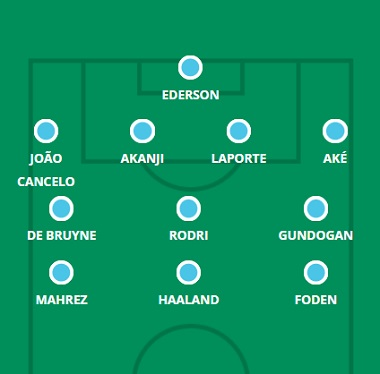
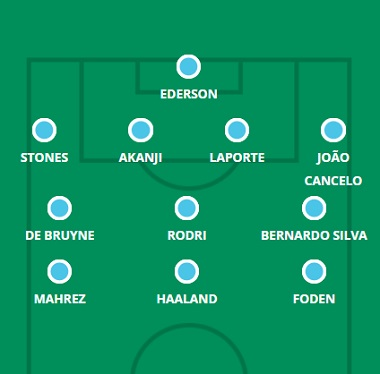
20/20

diff --git a/spurs.html b/spurs.html
@@ -63,15 +63,15 @@
     <hgroup>
         <h1> Provável Escalação</h1>
         <h2 class="direita"> por FabioVascão </h2>
-        <h3 class="direita"> Atualizado em 24/Novembro/2022 </h3>
+        <h3 class="direita"> Atualizado em 30/Novembro/2022 </h3>
     </hgroup>
 
     <div class="selecao"><p><b><img src="images/logos/tottenham.png" width="100rem" height="100rem"/> Tottenham</b></p></div>
        
     <div class="escalacao">
         <div class="topo">
-            <h2 class="titulo">Ultimas Notícias</h2> <h4><p> É uma verdadeira confusão quando se trata dos três jogadores do Spurs que estiveram envolvidos no último fim de semana da Copa do Mundo. Ivan Perisic está disponível para a seleção, mas Cristian Romero não estará de volta até a rodada 18 e Hugo Lloris estará apenas no banco contra o Brentford, o que significa uma largada para Fraser Forster entre os postes. No que diz respeito a lesões, Richarlison (coxa) enfrenta mais três a quatro semanas de ausência e Antonio Conte deu a entender que Lucas Moura ainda estava fora de jogo com as persistentes imperfeições que restringiram seu envolvimento em 2022/23 até agora. Matt Doherty parece bom para começar no oeste de Londres depois de quatro gols em três amistosos, mas pode jogar no flanco esquerdo, onde está implantado, com Perisic apenas voltando ao treinamento após 670 minutos de jogo com a Croácia e Ryan Sessegnon ainda não chutou uma bola após se recuperar de uma lesão. Outro zagueiro esquerdo que está em forma novamente, Ben Davies, conseguiu 24 minutos contra o Nice no meio da semana, mas não seria uma surpresa ver Davison Sanchez alinhar ao lado de Eric Dier e Clement Lenglet no meio-campo. Yves Bissouma parece pronto para substituir o suspenso Rodrigo Bentancur no meio-campo, enquanto a ausência de Richarlison e Lucas provavelmente cimenta as largadas dos três atacantes, desde que Son Heung-min não tenha nenhum efeito prolongado da doença que o restringiu para uma participação especial no meio da semana.</p></h4><br>
-            <h4><strong>Dúvidas:</strong> Richarlison, Lucas Moura, Skipp, Spence, Bentancur e Romero.</h4>
+            <h2 class="titulo">Ultimas Notícias</h2> <h4><p> Cristian Romero retorna da seleção com a Argentina para reforçar os números do Spurs na defesa, mas Rodrigo Bentancur, embora livre de suspensão, requer uma ressonância magnética em uma lesão na virilha e permanece de fora. Lucas Moura (tendão) e Richarlison (coxa) ainda afastados aparentemente consolidariam as partidas para os três primeiros que alinharam em Brentford, enquanto a ausência de Bentancur traz boas notícias para as perspectivas de Yves Bissouma em tempo de jogo. Existem alternativas em cada caso (Bryan Gil e Oliver Skipp), mas eles tiveram apenas duas partidas na liga nesta temporada e nem foram chamados como substitutos na 17ª rodada. expulsando Japhet Tanganga do papel de zagueiro direito, com Romero assumindo seu lugar se estiver totalmente recarregado e Davinson Sanchez entrando em cena, caso contrário. Com seis dias separando os jogos da Gameweek 17 e 18 do Spurs, a fadiga não deve ser o problema que costuma ser nesta época do ano. Clement Lenglet, Ivan Perisic e Matt Doherty esperam manter suas camisas para a visita do Villa, mas com um confronto com o Crystal Palace 72 horas depois deste, Ben Davies, Ryan Sessegnon e Emerson Royal poderão em breve dar uma olhada - nas três posições de maior risco. Hugo Lloris certamente retornará aqui também, tendo estado apenas no banco no Boxing Day após seu retorno tardio da Copa do Mundo.</p></h4><br>
+            <h4><strong>Dúvidas:</strong> Richarlison, Lucas Moura, Spence e Bentancur.</h4>
         </div>
         <aside>
             <figure>

diff --git a/south.html b/south.html
@@ -63,15 +63,15 @@
     <hgroup>
         <h1> Provável Escalação</h1>
         <h2 class="direita"> por FabioVascão </h2>
-        <h3 class="direita"> Atualizado em 24/Novembro/2022 </h3>
+        <h3 class="direita"> Atualizado em 30/Novembro/2022 </h3>
     </hgroup>
 
     <div class="selecao"><p><b><img src="images/logos/southampton.png" width="100rem" height="100rem"/> Southampton</b></p></div>
        
     <div class="escalacao">
         <div class="topo">
-            <h2 class="titulo">Ultimas Notícias</h2> <h4><p>Aguardamos a seção embargada da 17ª rodada do presser de Nathan Jones pós-EFL Cup, mas Juan Larios (músculo) e Tino Livramento (joelho) parecem improváveis de aparecer, enquanto Theo Walcott saiu mancando da vitória no meio da semana sobre Lincoln City com rigidez na panturrilha. Romeo Lavia não foi arriscado para esse jogo depois de "sentir algo" no treino, com Jones a afirmar que "será no dia-a-dia" com o médio e que o Santos "não quer arriscar" a sua forma física. Jones alinhou em um 3-5-2 em suas duas primeiras partidas oficiais como técnico do Southampton, mudando para um 4-3-3 mais tarde em ambos os jogos em uma tentativa de marcar gols. Jones pode decidir agir com cautela novamente contra um perigoso time de Brighton, então, com Kyle Walker-Peters e Romain Perraud posicionados como laterais fora de três zagueiros. Stuart Armstrong e Moi Elyounoussi podem estar travados em uma batalha pelo papel de número oito, enquanto a exibição sombria de Ainsley Maitland-Niles contra Lincoln e os problemas físicos de Lavia darão esperança a Ibrahima Diallo, que ainda não se apresentou sob seu novo chefe. Adam Armstrong também pode estar em tempo emprestado no topo, e ele é o cordeiro sacrificial se Jones mudar para um 4-3-3 para incorporar Samuel Edozie após as recentes aparições atraentes do jovem ala.</p></h4><br>
-            <h4><strong>Dúvidas:</strong>  Livramento, Juan Larios, Lavia e Walcott.</h4>
+            <h2 class="titulo">Ultimas Notícias</h2> <h4><p>Não houve muitas notícias da equipe na seção da Rodada 18 do presser de Nathan Jones no Boxing Day, mas ele sugeriu anteriormente que Romeo Lavia continuava sendo uma preocupação significativa, já que sua lenta recuperação de uma lesão no tendão da coxa continua. Alex McCarthy (tornozelo), Juan Larios (músculo), Tino Livramento (joelho) e Theo Walcott (gémeos) também estão na lista de grandes dúvidas, pelo que o novo treinador do Southampton poderá ter à sua disposição o mesmo grupo de jogadores para a deslocação a Fulham. Fixar Jones em um sistema favorito e pessoal preferido está se mostrando complicado, com mudanças táticas não apenas acontecendo entre as partidas, mas frequentemente durante elas. Tudo, desde um 3-5-2 a um 4-3-3 a um 4-4-2 ouros, foi testado pelo sucessor de Ralph Hasenhuttl, então a escalação prevista aqui deve ser tomada com uma pitada de sal. Moussa Djenepo e Ibrahima Diallo podem estar em risco após desistências no intervalo contra os Seagulls, com Stuart Armstrong a possibilidade de retornar depois que a doença limitou seu envolvimento na Rodada 17. Armel Bella-Kotchap também pode potencialmente recuperar seu lugar, com Jones dizendo o tempo do zagueiro fora de casa na Copa do Mundo o deixou sem ritmo antes do Boxing Day. Samuel Edozie arrancou elogios de seu chefe e o adolescente estará confiante em manter seu lugar, algo que Gavin Bazunu certamente não estará após seus recentes erros; A lesão de McCarthy pode apenas adiar a execução por enquanto.</p></h4><br>
+            <h4><strong>Dúvidas:</strong>  Livramento, Juan Larios, Lavia, McCarthy e Walcott.</h4>
         </div>
         <aside>
             <figure>

diff --git a/wolves.html b/wolves.html
@@ -63,14 +63,14 @@
     <hgroup>
         <h1> Provável Escalação</h1>
         <h2 class="direita"> por FabioVascão </h2>
-        <h3 class="direita"> Atualizado em 24/Novembro/2022 </h3>
+        <h3 class="direita"> Atualizado em 30/Novembro/2022 </h3>
     </hgroup>
 
     <div class="selecao"><p><b><img src="images/logos/wolverhampton.png" width="100rem" height="100rem"/> Wolverhampton</b></p></div>
        
     <div class="escalacao">
         <div class="topo">
-            <h2 class="titulo">Ultimas Notícias</h2> <h4><p> Pedro Neto (tornozelo), Sasa Kalajdzic (joelho) e Chiquinho (joelho) permanecem na lista de lesões de longa duração, enquanto Jonny (tendão da coxa) e Boubacar Traore (desconhecido) perderam a eliminatória da EFL Cup na terça-feira contra o Gillingham, mas desde então voltaram a treinar e será avaliado antes do confronto com o Everton. Julen Lopetegui usou principalmente seu 4-3-3 favorito nos amistosos do meio da temporada que supervisionou até agora, experimentando um sistema lateral na partida contra o Cadiz. Dois jogadores que brilharam como reservas na vitória no meio da semana sobre Gillingham, retornando aos participantes da Copa do Mundo Hwang Hee-chan e Matheus Nunes, estarão pressionando para começar em Goodison Park, com Gonçalo Guedes e Joe Hodge os homens para potencialmente abrir caminho. Raul Jimenez também está livre de lesões e pode pressionar Diego Costa, embora seja outra questão saber se seus níveis físicos permitem que ele comece uma partida oficial depois de quase não ter atuado por clube ou seleção nos últimos meses. Uma boa notícia para os torcedores de Hugo Bueno, já que o lateral adolescente tem se destacado nos planos de seu novo técnico durante o intervalo e impressionado na lateral-esquerda. Mesmo quando Rayan Ait-Nouri foi contratado como substituto contra o Gills na terça-feira, não foi às custas de Bueno, mas sim por um companheiro de equipe mais avançado.</p></h4><br>
+            <h2 class="titulo">Ultimas Notícias</h2> <h4><p> Ausências de longa data Pedro Neto (tornozelo), Chiquinho (joelho) e Sasa Kalajdzic (joelho) permanecem de fora para o primeiro jogo em casa do novo técnico Julen Lopetegui, mas há boas notícias antes da visita do Manchester United: o ala Daniel Podence foi declarado apto após sair de lesão no Boxing Day, enquanto Boubacar Traore (virilha) e Jonny (virilha) também estão disponíveis. O versátil Jonny pode jogar em qualquer um dos flancos e seu retorno adicionará mais incerteza ao lugar de Hugo Bueno, com Rayan Ait-Nouri saindo do banco para marcar dois gols consecutivos nos acréscimos no campeonato e na copa. No entanto, é provavelmente o lugar fora de forma de Nelson Semedo que está mais em risco quando Jonny está em plena forma, com o lateral-direito a ser titular apenas por falta de opções neste momento. Ait-Nouri, Adama Traore e Matheus Nunes estarão todos empenhados em começar após suas apresentações positivas em Goodison Park, enquanto há uma chance de também vermos uma mudança para um cinco de volta e uma promoção para o XI inicial para Toti Gomes. O atacante Diego Costa, de 34 anos, jogou todos os 90 minutos da vitória no Everton, então há uma chance de Lopetegui recorrer a Raul Jimenez, Hwang Hee-chan ou Gonçalo Guedes para liderar a linha.</p></h4><br>
             <h4><strong>Dúvidas:</strong>Kalajdzic, Neto (Pedro), Chiquinho, Jonny e Traoré (Boubacar).</h4>
         </div>
         <aside>

diff --git a/westham.html b/westham.html
@@ -63,15 +63,15 @@
     <hgroup>
         <h1> Provável Escalação</h1>
         <h2 class="direita"> por FabioVascão </h2>
-        <h3 class="direita"> Atualizado em 24/Novembro/2022 </h3>
+        <h3 class="direita"> Atualizado em 30/Novembro/2022 </h3>
     </hgroup>
 
     <div class="selecao"><p><b><img src="images/logos/west-ham.png" width="100rem" height="100rem"/> West Ham</b></p></div>
        
     <div class="escalacao">
         <div class="topo">
-            <h2 class="titulo">Ultimas Notícias</h2> <h4><p> Gianluca Scamacca (tornozelo) e Michail Antonio (panturrilha) estão “em dúvida” para o jogo do Arsenal no Boxing Day, com David Moyes discutindo na imprensa de sexta-feira a possibilidade de usar Jarrod Bowen pelo meio no Emirates. Não ouvimos mais atualizações sobre Aaron Cresswell, que sofreu uma lesão no tendão no início de dezembro, ou Kurt Zouma, que não joga desde uma cirurgia no joelho em novembro. A recuperação de Maxwel Cornet de uma lesão na panturrilha se arrasta e parece improvável que ele jogue este ano, enquanto Nayef Aguerd contraiu um problema na virilha e um vírus enquanto estava fora do Marrocos, então será avaliado em seu retorno ao leste de Londres no sábado. Apesar das possíveis ausências, Moyes tem alternativas ao cenário que previmos aqui. Angelo Ogbonna ou Ben Johnson podem ser adicionados como terceiro zagueiro se um sistema lateral for escolhido contra os líderes da liga, enquanto Flynn Downes é uma possível adição defensiva ao meio-campo; nós o vimos operar como um não. 10 e meio-campista direito já nesta temporada, quando seu técnico optou por uma abordagem mais conservadora.</p></h4><br>
-            <h4><strong>Dúvidas:</strong>Aguerd, Antonio, Cornet, Cresswell, Scamacca e Zouma.</h4>
+            <h2 class="titulo">Ultimas Notícias</h2> <h4><p> Michail Antonio se livrou de uma distensão na panturrilha para começar no Arsenal na 17ª rodada, enquanto o também atacante Gianluca Scamacca (tornozelo) pode retornar na noite de sexta-feira para desafiar seu rival de posição. Maxwel Cornet (panturrilha) e Kurt Zouma (joelho) devem permanecer de fora, enquanto David Moyes disse que não acredita que o zagueiro Nayef Aguerd (doença) esteja "ainda pronto" após seu retorno da Copa do Mundo. Como acontece com a maioria das equipes, esse período agitado de futebol festivo pode trazer uma leve rotação. Ben Johnson, Emerson Palmieri, Flynn Downes, Pablo Fornals e Manuel Lanzini foram todos substitutos na derrota para o Arsenal, mas Moyes tende a ser um dos técnicos mais teimosos quando se trata de seleções de times (apenas Fornals conseguiu nos Emirados) , e ele raramente fica louco com as alterações causadas pelo cansaço. Os Hammers também receberam uma das agendas mais generosas, com intervalos de quatro e cinco dias, respectivamente, entre os jogos da Rodada 17-19.</p></h4><br>
+            <h4><strong>Dúvidas:</strong>Aguerd, Cornet, Scamacca e Zouma.</h4>
         </div>
         <aside>
             <figure>

diff --git a/city.html b/city.html
@@ -63,15 +63,15 @@
     <hgroup>
         <h1> Provável Escalação</h1>
         <h2 class="direita"> por FabioVascão </h2>
-        <h3 class="direita"> Atualizado em 24/Novembro/2022 </h3>
+        <h3 class="direita"> Atualizado em 30/Novembro/2022 </h3>
     </hgroup>
 
     <div class="selecao"><p><b><img src="images/logos/manchester-city.png" width="100rem" height="100rem"/> Manchester City</b></p></div>
        
     <div class="escalacao">
         <div class="topo">
-            <h2 class="titulo">Ultimas Notícias</h2> <h4><p> Ruben Dias (coxa) e um Kalvin Phillips acima do peso (aptidão para o jogo) estão fora da viagem para Leeds, enquanto Julian Alvarez também parece improvável de participar depois que o City deu ao vencedor da Copa do Mundo 7 a 10 dias de folga após seus esforços no Catar. Mais atualizações a seguir.</p></h4><br>
-            <h4><strong>Dúvidas:</strong> Alvarez, Dias e Phillips.</h4>
+            <h2 class="titulo">Ultimas Notícias</h2> <h4><p> Ruben Dias (coxa) deve ficar de fora, enquanto Julian Alvarez não voltará a treinar até o Ano Novo, após os esforços no Catar. Apenas 65 horas separam em tempo integral a vitória sobre o Leeds e o pontapé inicial contra o Everton, para que possamos ter uma vaga de rotação sazonal no Etihad na véspera de Ano Novo. Phil Foden e João Cancelo voltaram ao jogo com aparições no segundo tempo em Elland Road, e podem voltar ao XI titular aqui; Guardiola disse no meio da semana que Jack Grealish e Riyad Mahrez foram parcialmente selecionados nos flancos (à frente de Foden) para controlar o ritmo do que poderia ser uma partida de basquete contra um time de Leeds de alto ritmo - uma tática que ele já usou antes em tais jogos, e Everton em casa não é um deles. Resta saber se Kyle Walker está pronto para o jogo depois de não ter saído do banco nem na liga nem na copa desde a Copa do Mundo, enquanto outro dos incansáveis incansáveis de Guardiola, Bernardo Silva, tem apenas alguns minutos para seu nome desde que Portugal saiu do Qatar 2022. John Stones pode passar para lateral-direito se Walker não estiver pronto para a ação doméstica desde o início, mas apenas para aumentar a imprevisibilidade absoluta na defesa (nem sequer mencionamos Manuel Akanji , Nathan Ake ou Aymeric Laporte ainda), o jovem Rico Lewis começou os últimos dois jogos na defesa e recebeu muitos elogios de seu técnico. Dado os tempos de retorno acentuados, não podemos nem dizer com certeza absoluta que Erling Haaland e/ou Kevin De Bruyne não conseguirão administrar minutos de alguma variedade, com Ederson sendo o único nome acertado para este.</p></h4><br>
+            <h4><strong>Dúvidas:</strong> Alvarez e Dias.</h4>
         </div>
         <aside>
             <figure>
